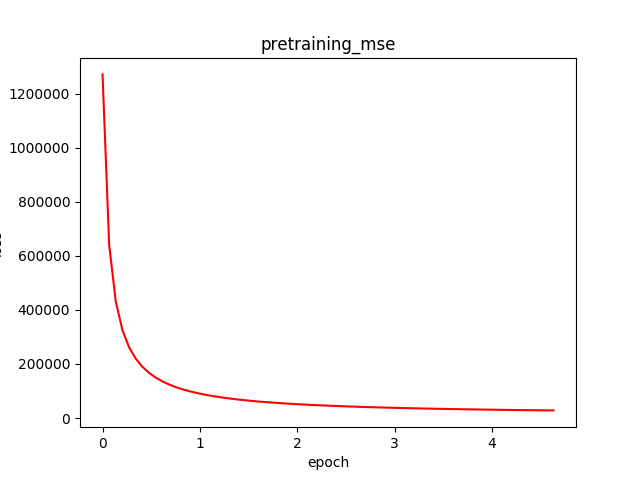
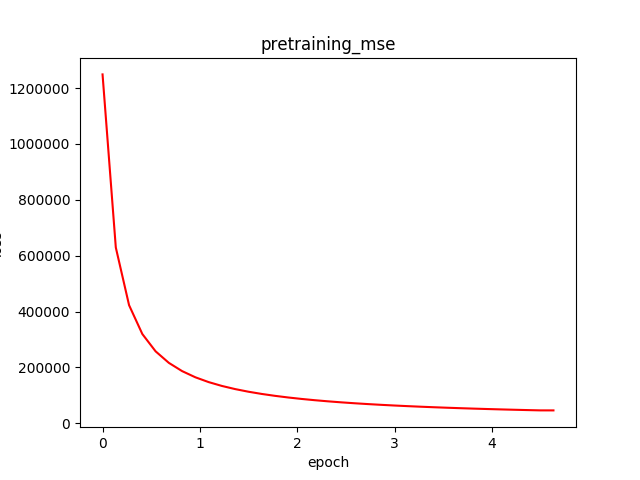
training on exahead

diff --git a/python/FFNN_MODEL_001/config--all_data.py b/python/FFNN_MODEL_001/config--all_data.py
@@ -2,7 +2,7 @@
 
 '''
 params = {
-'NAME' : 'ALL-DATA-3FC_007',
+'NAME' : 'ALL-DATA-3FC_008',
 
 # -----------------------------------------------------------------------------
 # -----------------------------------------------------------------------------
@@ -33,7 +33,7 @@ params = {
 
 'H1' : 5000,
 'H2' : 5000,
-'H3' : 100,                # Layer 3 - Dataset Shared
+'H3' : 25,                # Layer 3 - Dataset Shared
 'DH' : 100,                # Dataset Specific Layer
 
 'DO' : 0.5,                # Dropout
